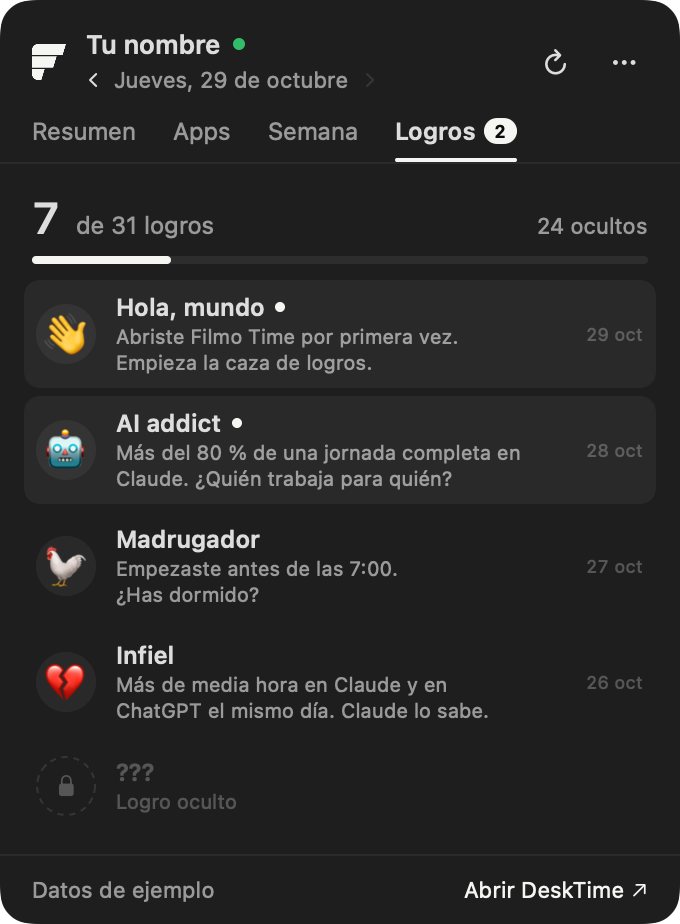
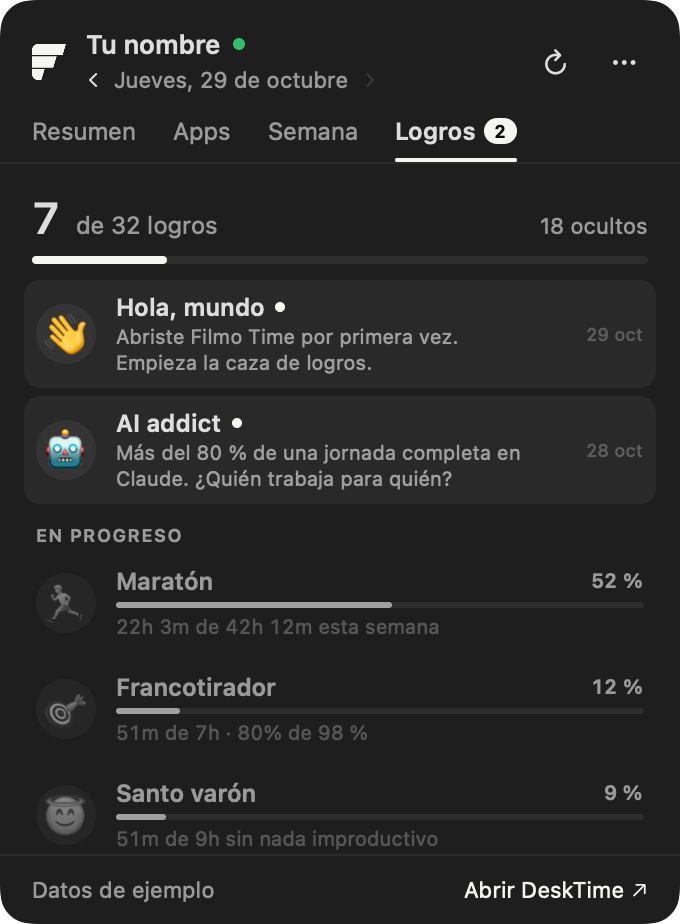
Show productivity achievements greyed out with progress; release 1.1.4
Productivity achievements are visible before unlocking with a progress
bar and what is left; the humorous ones stay hidden.

diff --git a/App/Achievements.swift b/App/Achievements.swift
@@ -138,21 +138,8 @@ let allAchievements: [Achievement] = [
         $0.weekday == 6 && $0.worked >= 10 * hour && $0.today.productivity >= 90
     },
     Achievement(id: "racha", emoji: "🔥", title: "En racha",
-                detail: "10 jornadas completas seguidas por encima del 85 % de productividad.") { c in
-        var streak = 0
-        var day = c.calendar.startOfDay(for: c.now)
-        for _ in 0..<30 {
-            if let s = c.history[Fmt.ymd(day)], s.worked >= fullDay {
-                guard s.productivity > 85 else { break }
-                streak += 1
-                if streak >= 10 { return true }
-            } else if c.calendar.isDate(day, inSameDayAs: c.now) == false,
-                      ![1, 7].contains(c.calendar.component(.weekday, from: day)) {
-                break  // A weekday without a full day breaks the streak; weekends do not.
-            }
-            day = c.calendar.date(byAdding: .day, value: -1, to: day)!
-        }
-        return false
+                detail: "10 jornadas completas seguidas por encima del 85 % de productividad.") {
+        currentStreak($0) >= 10
     },
     Achievement(id: "maraton", emoji: "🏃", title: "Maratón",
                 detail: "42,195 horas trabajadas en una semana, como los kilómetros de un maratón. Hidrátate.") {
@@ -228,6 +215,60 @@ let allAchievements: [Achievement] = [
     },
 ]
 
+/// Full working days in a row above 85 % productivity, ending today.
+/// Weekends never break it; today only counts once it is a full day.
+func currentStreak(_ c: AchievementContext) -> Int {
+    var streak = 0
+    var day = c.calendar.startOfDay(for: c.now)
+    for _ in 0..<40 {
+        let isToday = c.calendar.isDate(day, inSameDayAs: c.now)
+        if let s = c.history[Fmt.ymd(day)], s.worked >= fullDay {
+            guard s.productivity > 85 else { break }
+            streak += 1
+        } else if !isToday, ![1, 7].contains(c.calendar.component(.weekday, from: day)) {
+            break
+        }
+        day = c.calendar.date(byAdding: .day, value: -1, to: day)!
+    }
+    return streak
+}
+
+// MARK: - Progress
+
+/// Productivity achievements are visible before unlocking, with how close you are.
+/// The fraction is the most limiting requirement, so it never overstates progress.
+let progressTrackers: [String: (AchievementContext) -> (fraction: Double, text: String)] = [
+    "sin-casa": { c in
+        (c.worked / (12 * hour), "\(Fmt.duration(c.worked)) de 12h hoy")
+    },
+    "francotirador": { c in
+        (min(c.worked / fullDay, c.today.productivity / 98),
+         "\(Fmt.duration(c.worked)) de 7h · \(Fmt.percent(c.today.productivity)) de 98 %")
+    },
+    "eficacia-100": { c in
+        (c.today.efficiency / 100, "\(Fmt.percent(c.today.efficiency)) de eficacia hoy")
+    },
+    "santo": { c in
+        c.today.unproductiveTime >= 60
+            ? (0, "Hoy ya llevas \(Fmt.duration(c.today.unproductiveTime)) improductivos")
+            : (c.worked / (9 * hour), "\(Fmt.duration(c.worked)) de 9h sin nada improductivo")
+    },
+    "viernes-cohete": { c in
+        c.weekday != 6
+            ? (0, "Solo cuenta los viernes")
+            : (min(c.worked / (10 * hour), c.today.productivity / 90),
+               "\(Fmt.duration(c.worked)) de 10h · \(Fmt.percent(c.today.productivity)) de 90 %")
+    },
+    "racha": { c in
+        let n = currentStreak(c)
+        return (Double(n) / 10, "\(n) de 10 días seguidos al 85 %")
+    },
+    "maraton": { c in
+        let w = c.week.reduce(0) { $0 + $1.desktime }
+        return (w / (42.195 * hour), "\(Fmt.duration(w)) de 42h 12m esta semana")
+    },
+]
+
 // MARK: - Live triggers
 
 /// The Mac telling us you switched to an app, the moment it happens.
@@ -281,6 +322,8 @@ final class Achievements: ObservableObject {
     }
 
     @Published private(set) var state = State()
+    /// Latest evaluation context, for the progress of visible achievements.
+    @Published private(set) var lastContext: AchievementContext?
     private let persist: Bool
     private var previousToday: DayData?
     private static let url = KeyStore.fileURL.deletingLastPathComponent().appendingPathComponent("achievements.json")
@@ -322,6 +365,7 @@ final class Achievements: ObservableObject {
             popoverOpensToday: state.opensDay == Fmt.ymd(Date()) ? state.opens : 0,
             isFirstDay: state.firstDay == Fmt.ymd(Date()))
         previousToday = today
+        lastContext = ctx
         unlock(allAchievements.filter { state.unlocked[$0.id] == nil && $0.check(ctx) })
     }
 
@@ -356,6 +400,8 @@ final class Achievements: ObservableObject {
         let ids = ["hola", "ai-addict", "madrugador", "infiel", "hacker", "reunionitis", "suizo"]
         for (i, id) in ids.enumerated() { state.unlocked[id] = Date().addingTimeInterval(Double(-i) * 86400) }
         state.seen = Set(ids.dropFirst(2))
+        lastContext = AchievementContext(today: Demo.day, previous: nil, now: Date(), week: Demo.week(around: Date()),
+                                         history: [:], popoverOpensToday: 0, isFirstDay: false)
     }
 
     private func save() {
@@ -387,7 +433,16 @@ struct AchievementsTab: View {
         let unlocked = allAchievements
             .filter { model.state.unlocked[$0.id] != nil }
             .sorted { model.state.unlocked[$0.id]! > model.state.unlocked[$1.id]! }
-        let locked = allAchievements.count - unlocked.count
+        let inProgress: [(Achievement, Double, String)] = allAchievements
+            .filter { model.state.unlocked[$0.id] == nil }
+            .compactMap { a in
+                guard let tracker = progressTrackers[a.id] else { return nil }
+                guard let ctx = model.lastContext else { return (a, 0, "Esperando datos de hoy…") }
+                let p = tracker(ctx)
+                return (a, min(max(p.fraction, 0), 0.99), p.text)
+            }
+            .sorted { $0.1 > $1.1 }
+        let hiddenCount = allAchievements.count - unlocked.count - inProgress.count
 
         VStack(alignment: .leading, spacing: 0) {
             VStack(alignment: .leading, spacing: 6) {
@@ -395,7 +450,7 @@ struct AchievementsTab: View {
                     Text("\(unlocked.count)").font(.system(size: 22, weight: .semibold).monospacedDigit())
                     Text("de \(allAchievements.count) logros").font(.system(size: 12)).foregroundStyle(.secondary)
                     Spacer()
-                    Text("\(locked) ocultos").font(.system(size: 11)).foregroundStyle(.secondary)
+                    Text("\(hiddenCount) ocultos").font(.system(size: 11)).foregroundStyle(.secondary)
                 }
                 GeometryReader { g in
                     ZStack(alignment: .leading) {
@@ -409,13 +464,23 @@ struct AchievementsTab: View {
             .padding(.horizontal, 16).padding(.top, 14).padding(.bottom, 8)
 
             // Snapshots cannot scroll: show one screenful.
-            let shown = isSnapshotRender ? Array(unlocked.prefix(4)) : unlocked
-            let hidden = isSnapshotRender ? min(locked, 1) : locked
-            let rows = VStack(spacing: 4) {
+            let shown = isSnapshotRender ? Array(unlocked.prefix(2)) : unlocked
+            let progress = isSnapshotRender ? Array(inProgress.prefix(3)) : inProgress
+            let hidden = isSnapshotRender ? 0 : hiddenCount
+            let rows = VStack(alignment: .leading, spacing: 4) {
                 ForEach(shown) { a in
                     AchievementRow(achievement: a, date: model.state.unlocked[a.id], isNew: !model.state.seen.contains(a.id))
                 }
-                ForEach(0..<hidden, id: \.self) { _ in LockedRow() }
+                if !progress.isEmpty {
+                    SectionLabel(text: "En progreso").padding(.top, 6)
+                    ForEach(progress, id: \.0.id) { a, fraction, text in
+                        ProgressRow(achievement: a, fraction: fraction, text: text)
+                    }
+                }
+                if hidden > 0 {
+                    SectionLabel(text: "Ocultos").padding(.top, 6)
+                    ForEach(0..<hidden, id: \.self) { _ in LockedRow() }
+                }
             }
             .padding(.horizontal, 12)
             if isSnapshotRender {
@@ -426,6 +491,54 @@ struct AchievementsTab: View {
         }
         // Opening the tab counts as having seen the new ones.
         .onDisappear { model.markAllSeen() }
+    }
+}
+
+struct SectionLabel: View {
+    let text: String
+    var body: some View {
+        Text(text.uppercased())
+            .font(.system(size: 9, weight: .semibold))
+            .tracking(0.6)
+            .foregroundStyle(.secondary)
+            .padding(.horizontal, 6)
+    }
+}
+
+/// A productivity achievement not unlocked yet: greyed out, with its progress.
+struct ProgressRow: View {
+    let achievement: Achievement
+    let fraction: Double
+    let text: String
+
+    var body: some View {
+        HStack(alignment: .center, spacing: 10) {
+            Text(achievement.emoji)
+                .font(.system(size: 18))
+                .grayscale(1)
+                .opacity(0.45)
+                .frame(width: 30, height: 30)
+                .background(Circle().fill(Color.primary.opacity(0.04)))
+            VStack(alignment: .leading, spacing: 3) {
+                HStack {
+                    Text(achievement.title).font(.system(size: 12, weight: .semibold)).foregroundStyle(.secondary)
+                    Spacer()
+                    Text("\(Int((fraction * 100).rounded())) %")
+                        .font(.system(size: 10, weight: .semibold).monospacedDigit())
+                        .foregroundStyle(.secondary)
+                }
+                GeometryReader { g in
+                    ZStack(alignment: .leading) {
+                        Capsule().fill(Color.primary.opacity(0.08))
+                        Capsule().fill(Color.secondary).frame(width: max(g.size.width * fraction, 3))
+                    }
+                }
+                .frame(height: 3)
+                Text(text).font(.system(size: 10).monospacedDigit()).foregroundStyle(.tertiary).lineLimit(1)
+            }
+        }
+        .padding(.horizontal, 6).padding(.vertical, 6)
+        .help(achievement.detail)
     }
 }
 

diff --git a/README.md b/README.md
@@ -33,7 +33,10 @@ Filmo Time lee tus datos de [DeskTime](https://desktime.com) y te los enseña si
 
 ### 🏆 Logros
 
-Hay **32 logros ocultos**. No sabrás cuáles son hasta que los consigas: cuando desbloqueas uno, te llega una notificación y aparece en la pestaña **Logros**. Algunos te harán sentir orgulloso. Otros, no tanto.
+Hay **32 logros**, con una notificación cada vez que desbloqueas uno:
+
+- **De productividad:** se ven desde el principio, en gris, con una barra que te dice cuánto te falta (por ejemplo, «5h 10m de 7h · 84 % de 98 %»).
+- **El resto:** ocultos. No sabrás cuáles son hasta que los consigas. Algunos te harán sentir orgulloso. Otros, no tanto.
 
 <p align="center"><img src="docs/popover-logros.png" width="260" alt="Pestaña Logros"></p>
 
@@ -164,11 +167,11 @@ Compilar requiere Xcode (o sus herramientas de línea de comandos) y un certific
 ### Publicar una versión
 
 ```bash
-VERSION=1.1.4 ./build.sh --dmg
-gh release create v1.1.4 dist/Filmo-Time.dmg --title "Filmo Time 1.1.4" --notes "Qué cambia"
+VERSION=1.1.5 ./build.sh --dmg
+gh release create v1.1.5 dist/Filmo-Time.dmg --title "Filmo Time 1.1.5" --notes "Qué cambia"
 ```
 
-- La etiqueta tiene que ser `v` + la misma versión (`v1.1.4`) y el archivo adjunto llamarse `Filmo-Time.dmg`.
+- La etiqueta tiene que ser `v` + la misma versión (`v1.1.5`) y el archivo adjunto llamarse `Filmo-Time.dmg`.
 - Las apps instaladas lo detectan solas (una vez al día) y ofrecen actualizar. Solo instalan versiones firmadas por el mismo certificado.
 - El enlace de descarga del README apunta siempre a la última release.
 
